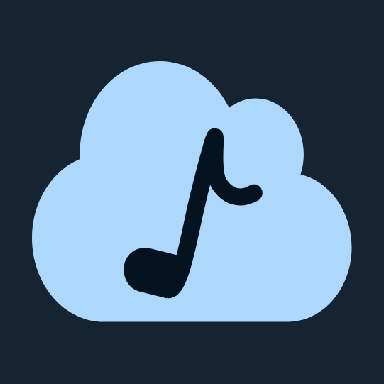
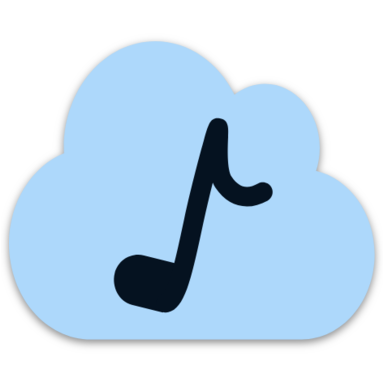
CHORE: updated pwa stuff ⚙

diff --git a/client/src/app.html b/client/src/app.html
@@ -9,11 +9,9 @@
 		<link rel="icon" type="image/png" sizes="32x32" href="/favicon-32x32.png" />
 		<link rel="icon" type="image/png" sizes="16x16" href="/favicon-16x16.png" />
 		<link rel="manifest" href="/site.webmanifest" />
-		<link rel="mask-icon" href="/safari-pinned-tab.svg" color="#162331" />
-		<meta name="apple-mobile-web-app-title" content="Apollo Music" />
-		<meta name="application-name" content="Apollo Music" />
-		<meta name="msapplication-TileColor" content="#162331" />
-		<meta name="theme-color" content="#162331" />
+		<link rel="mask-icon" href="/safari-pinned-tab.svg" color="#051220" />
+		<meta name="msapplication-TileColor" content="#051220" />
+		<meta name="theme-color" content="#051220" />
 
 		<meta name="viewport" content="width=device-width, initial-scale=1, user-scalable=no" />
 		<meta name="description" content="Apollo the coolest cloud music player!" />
@@ -24,7 +22,7 @@
 
 		%sveltekit.head%
 	</head>
-	<body data-sveltekit-preload-data="hover">
+	<body data-sveltekit-preload-data="hover" class="bg-dark-primary">
 		<div style="display: contents">%sveltekit.body%</div>
 	</body>
 </html>
